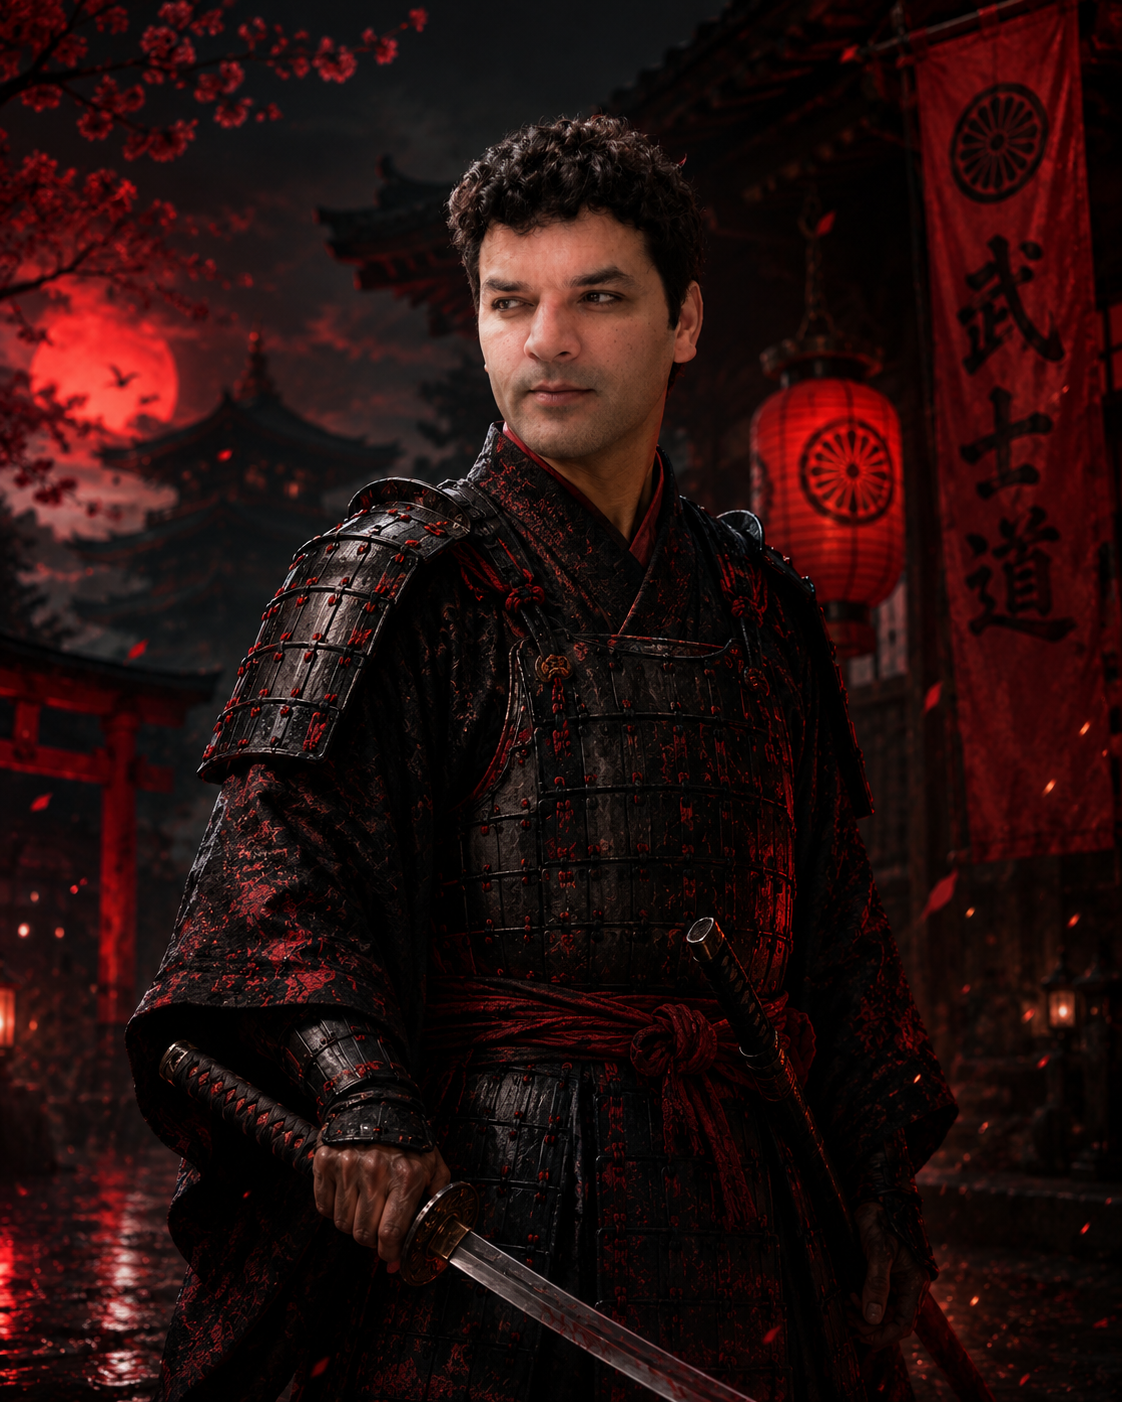
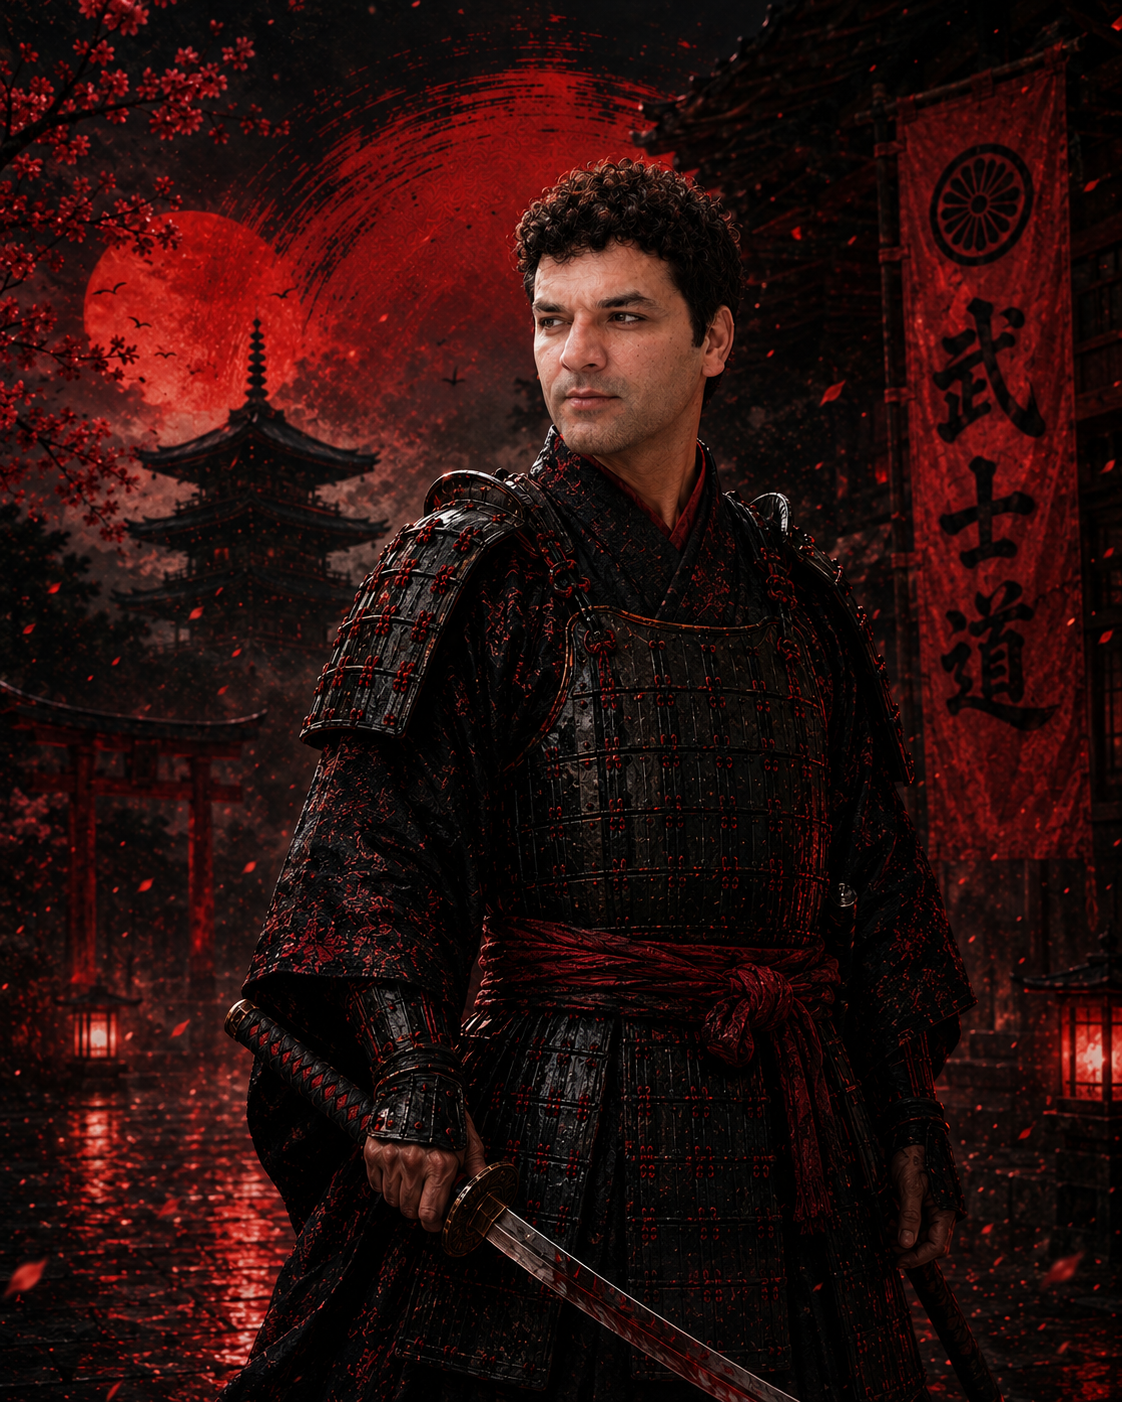
fix

diff --git a/script.js b/script.js
@@ -898,7 +898,7 @@ if (window.gsap && window.ScrollTrigger) {
 
       float inStrip = 1.0 - smoothstep(pw * 0.82, pw * 1.08, uv.x);
       vec3 bgBase = texture2D(u_bg, uv).rgb * 0.88;
-      vec3 inner = mix(bgBase, port, inStrip * 0.78);
+      vec3 inner = mix(bgBase, port, inStrip * 1.0);
       vec3 col   = inner * mask;
 
       float glow = exp(-edgeDist * 36.0) * 0.5;
@@ -930,7 +930,8 @@ if (window.gsap && window.ScrollTrigger) {
 
       const float portraitAmbient = 0.62;
       vec3 baseWithPortrait = mix(bgBase, port, inStrip * portraitAmbient);
-      vec3 shadedBase = mix(baseWithPortrait, grad, u_baseAlpha);
+      float gradOverlay = mix(u_baseAlpha, u_baseAlpha * 0.25, inStrip);
+      vec3 shadedBase = mix(baseWithPortrait, grad, gradOverlay);
       float revealAlpha = clamp(mask + glow * 0.55, 0.0, 1.0) * u_opacity;
       vec3 revealColor = clamp(col, 0.0, 1.0);
       vec3 finalColor = mix(shadedBase, revealColor, revealAlpha);
@@ -1009,7 +1010,7 @@ if (window.gsap && window.ScrollTrigger) {
   }
 
   loadBitmap('./assets/hero-samurai.png', 0, texBg);
-  loadBitmap('./assets/shiv-1.png', 1, texPort, (w, h) => gl.uniform1f(uPortAR, w / h));
+  loadBitmap('./assets/shiv-2.png', 1, texPort, (w, h) => gl.uniform1f(uPortAR, w / h));
 
   let mx = 0.15, my = 0.58;
   let smx = 0.15, smy = 0.58;